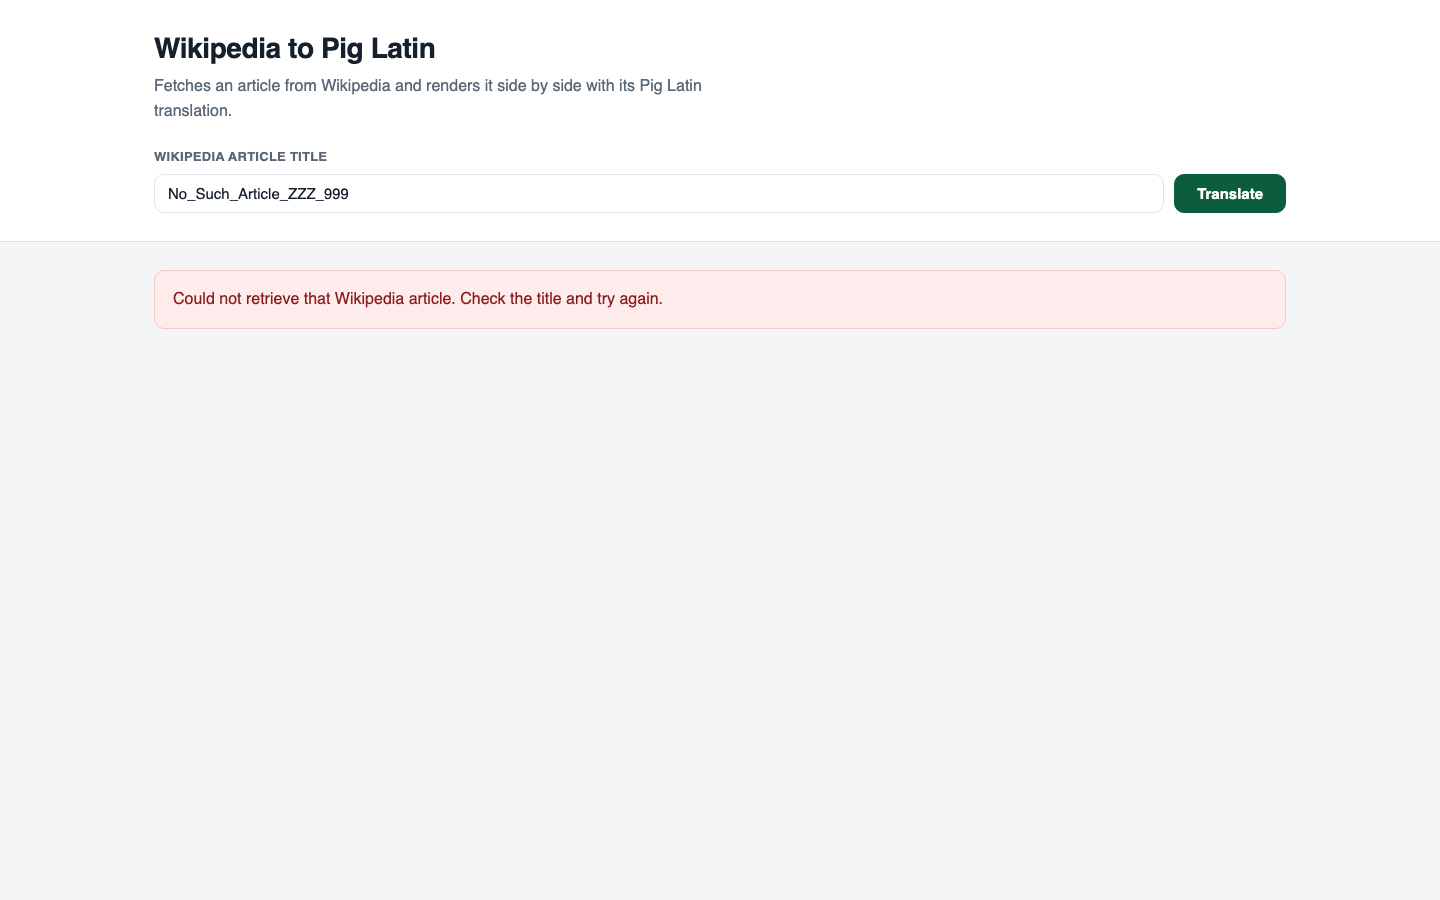
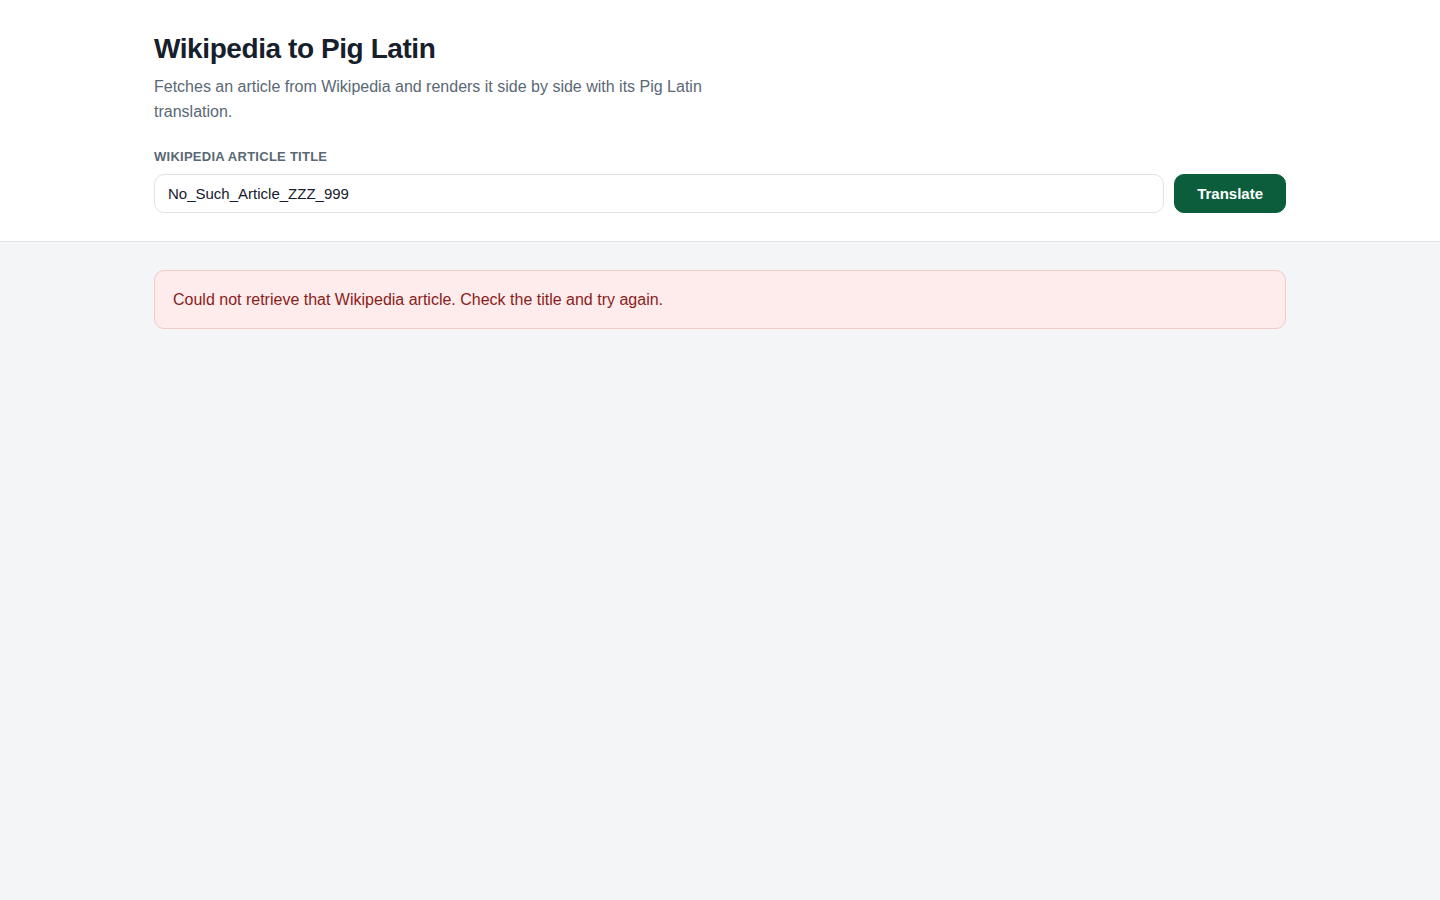
Refresh the README, captures and screenshots for the upgraded app
- Request/response transcript, cache timing and arithmetic benchmark
  regenerated against the app running in production mode on Ruby 3.4.
  The capture script now also covers a non-object body, an oversized
  body (413), a lower-case title that Wikipedia redirects, and /up.
- Screenshots re-captured with headless Chromium, plus a phone-width
  view of the stacked columns.
- README documents the new error statuses, redirect handling and
  hyphenated-word rule, and drops the paragraph about the name.
- Compose setup uses .env.example and openssl for SECRET_KEY_BASE, so
  it no longer needs Ruby on the host. The known-gaps entry about the
  image now states what was and was not run.
- MIT LICENSE added; the project had none.

Changed region(s): [[0.0938, 0.0311, 0.5, 0.2178], [0.125, 0.3111, 0.4688, 0.3422], [0.8438, 0.1867, 0.875, 0.2178]]

diff --git a/README.md b/README.md
@@ -1,14 +1,10 @@
 # Pig Latin, ROT13, and multiplication without `*`
 
-A Rails 7.0 assessment built around three unrelated exercises: a JSON endpoint that
+A small Rails 8.1 app built around three unrelated exercises: a JSON endpoint that
 ROT13-encrypts a string and records the pair in PostgreSQL, a page that fetches a
 Wikipedia article and renders it beside a Pig Latin translation, and a library that
 implements integer `multiply` and `power` from addition alone. No login, no user model,
 no background worker.
-
-`ftf` is initials. They survive as the Rails module name (`FtfAssessment`), the database
-names and `FTF_ASSESSMENT_DATABASE_PASSWORD`, and nothing in the code depends on what
-they stand for.
 
 ## The three exercises
 
@@ -26,8 +22,9 @@ answers `success?`, carries the HTTP status). Controllers do HTTP and nothing el
 
 ## The page
 
-Captured at 1440x900 against `bin/rails server`. `docs/capture_api.sh` regenerates the
-text captures in [`docs/output/`](docs/output).
+Captured with headless Chromium at 1440x900 (and 390x844 for the phone layout) against
+the app running in production mode. `docs/capture_api.sh` regenerates the text captures
+in [`docs/output/`](docs/output).
 
 `/wiki/Pig_Latin`, 26 paragraphs each side. The article states its own expected output —
 `"she does not know"` becomes `"eshay oesday otnay owknay"` — and the right-hand column
@@ -41,9 +38,14 @@ parentheses is URL-encoded before it reaches Wikipedia.
 ![The Ruby article translated](docs/screenshots/translation-ruby.png)
 
 A title Wikipedia does not have. The failure is inline and mentions no URL, exception
-class or status code.
+class or status code. The page itself is served with a 502, so a cache or monitor in
+front of the app does not mistake it for a success.
 
 ![The error state for an unknown article title](docs/screenshots/error-unknown-article.png)
+
+Below 860px the two columns stack, original first.
+
+![The Pig Latin article on a phone-sized screen](docs/screenshots/translation-mobile.png)
 
 ## What happens on GET /wiki/:title
 
@@ -68,6 +70,7 @@ sequenceDiagram
     else not cached
         S->>W: article_paragraphs(title)
         W->>W: url_encode the title, 3s open and 5s read timeout
+        W->>W: follow up to 3 redirects on the same host
         alt Wikipedia answers 200
             W-->>S: paragraph texts
             S->>T: translate(paragraph), one call per paragraph
@@ -91,19 +94,23 @@ Measured on the same article five times after a server restart
 
 ```
 request         bytes    seconds
-#1              52500   3.186100    cold
-#2              52500   0.006994
-#5              52500   0.006668
+#1              50884   0.744394    cold
+#2              50884   0.014329
+#5              50884   0.004754
 ```
 
 The client's 3s open and 5s read timeouts bound a request at 8 seconds rather than the
 60 + 60 that `Net::HTTP` defaults to, and `WikipediaClient::TRANSPORT_ERRORS` collapses
 DNS, TLS, refused-connection and timeout failures into one `FetchError` for callers.
 
+Wikipedia answers a title whose first letter is lower case (`pig_latin`) with a 301 to the
+canonical article. The client follows up to three redirects, and only on the same host;
+a redirect anywhere else is treated as a failed fetch.
+
 ## Running it
 
 ```bash
-# Ruby 3.1.3 and a running PostgreSQL are the only prerequisites.
+# Ruby 3.4.12 (see .ruby-version) and a running PostgreSQL are the only prerequisites.
 bundle install
 bin/rails db:prepare
 bin/rails server            # http://localhost:3000
@@ -112,8 +119,8 @@ bin/rails server            # http://localhost:3000
 Open <http://localhost:3000>, type an article title, press Translate.
 
 ```bash
-bundle exec rspec                       # 101 examples, 0 failures
-bundle exec rubocop                     # 53 files inspected, no offenses detected
+bundle exec rspec                       # 109 examples, 0 failures
+bundle exec rubocop                     # 46 files inspected, no offenses detected
 bundle exec rake benchmark:arithmetic
 docs/capture_api.sh                     # regenerates docs/output against a running server
 ```
@@ -126,8 +133,9 @@ it.
 With Docker instead:
 
 ```bash
-echo "SECRET_KEY_BASE=$(bin/rails secret)" > .env   # compose reads .env, which is gitignored
-docker compose up --build                            # http://localhost:8710
+cp .env.example .env                    # compose reads .env, which is gitignored
+# then set SECRET_KEY_BASE in .env to the output of: openssl rand -hex 64
+docker compose up --build               # http://localhost:8710
 ```
 
 ## The API
@@ -139,23 +147,30 @@ Content-Type: application/json
 
 200 {"original_string":"Hello, World!","encrypted_string":"Uryyb, Jbeyq!","error":null}
 422 {"original_string":null,"encrypted_string":null,"error":"Missing parameter or its value: original_string"}
+422 {"error":"Request body cannot be empty"}
+422 {"error":"Request body must be a JSON object"}
+413 {"error":"Request body is larger than 1048576 bytes"}
 500 {"error":"Something went wrong. Please try again."}
 ```
 
 ```
-GET /wiki/:title           HTML, two columns
+GET /wiki/:title           HTML, two columns; 502 with an inline error if the fetch fails
 GET /wiki?wiki_url=:title  same action, the target of the on-page form
 GET /wiki/:title.json      {original_paragraphs, translated_paragraphs, original_content, translated_content, error_message}
 GET /up                    liveness probe: 200 "ok", no database, no network
 ```
 
-Non-string, empty, malformed and oversized bodies all come back as a 422 with a
-user-facing message. The exception detail goes to the log and never into the response —
+A missing or non-string `original_string`, an empty body, malformed JSON and a JSON value
+that is not an object each get a 422 with a user-facing message. A body over
+`MAX_ENCRYPTION_BYTES` gets a 413: the controller reads one byte past the limit to tell the
+two apart, and never buffers more than that. The exception detail goes to the log and
+never into the response —
 `Api::BaseController` renders one generic envelope for anything that escapes. The HTML
 side installs no blanket `rescue_from` at all and lets Rails render the right thing for
 the format. Real request and response pairs for every case are in
 [`docs/output/api-transcript.txt`](docs/output/api-transcript.txt), and
-`ftf_assessment.postman_collection.json` holds the same requests.
+`ftf_assessment.postman_collection.json` holds the same requests with a `base_url`
+variable (port 3000 for `bin/rails server`, 8710 for Compose).
 
 ## Environment
 
@@ -185,9 +200,11 @@ URL or password are required in production.
 spelled out at the top of `app/lib/pig_latin/translator.rb` and pinned by
 `spec/lib/pig_latin/translator_spec.rb`. A non-initial `y` counts as a vowel
 (`syllable` → `yllablesay`). Leading and trailing non-letters stay put, so `know"`
-becomes `owknay"` rather than `ow"knay`. A token with no letters at all is returned
-untouched. The original word's capitalisation shape is carried over. All four are
-defensible choices, not the only ones.
+becomes `owknay"` rather than `ow"knay`. Hyphens and slashes separate words, so
+`well-known` becomes `ellway-ownknay`, while an apostrophe between letters stays inside
+its word (`don't` → `on'tday`). A token with no letters at all is returned untouched.
+The original word's capitalisation shape is carried over. All of these are defensible
+choices, not the only ones.
 
 **The extension seam is the cipher registry.** `enc_type` is a free-text column, so the
 schema was always ready for more than one cipher. `Ciphers::Registry` makes that
@@ -209,10 +226,10 @@ alongside the current implementation, checks the two agree on every case, and ti
 
 ```
 case                           repeated-add  shift-and-add    speedup
-multiply(2, 1_000_000)            0.037398s      0.000018s      2078x
-multiply(2, 10_000_000)           0.380346s      0.000011s     34577x
-multiply(123_456, 98_765)         0.003709s      0.000007s       530x
-power(2, 64)                      0.000021s      0.000016s         1x
+multiply(2, 1_000_000)            0.038285s      0.000013s      2964x
+multiply(2, 10_000_000)           0.384022s      0.000011s     34650x
+multiply(123_456, 98_765)         0.003644s      0.000002s      1784x
+power(2, 64)                      0.000029s      0.000015s         2x
 ```
 
 ## Known gaps
@@ -233,5 +250,11 @@ power(2, 64)                      0.000021s      0.000016s         1x
 - **`config/credentials.yml.enc` is committed without its `master.key`**, which is
   correctly gitignored and absent. Nothing in the app reads the credentials and
   production uses `SECRET_KEY_BASE`, but a fresh clone cannot run `rails credentials:edit`.
-- **The Docker image has not been built or booted** from this checkout. The `Dockerfile`
-  and `docker-compose.yml` are committed and reviewable, but unexercised.
+- **The Docker image has not been built since the Ruby 3.4 upgrade.** The same production
+  boot it performs (`assets:precompile`, `db:prepare`, Puma on `ruby:3.4.12-slim` with the
+  locked gems, against PostgreSQL 16) has been run and served every page and endpoint
+  above, but `docker compose up --build` itself is unverified.
+
+## License
+
+MIT, see [`LICENSE`](LICENSE).
